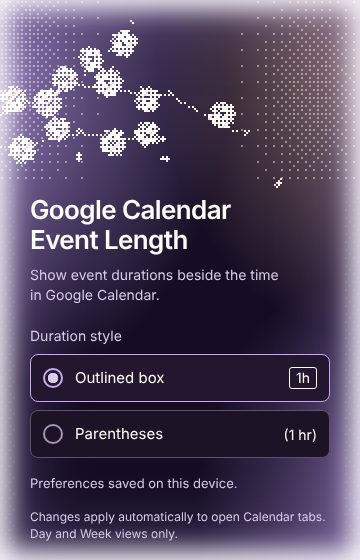
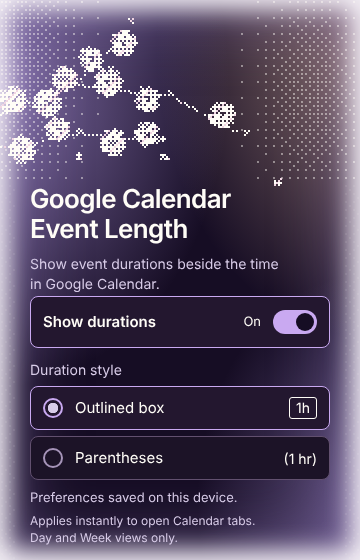
Add Show durations on/off switch (0.5.0)

Changed region(s): [[0.0611, 0.3339, 0.9167, 0.9714]]

diff --git a/extension/popup.css b/extension/popup.css
@@ -6,19 +6,32 @@ body { width: 360px; height: 560px; margin: 0; background: #160D24; font: 14px/1
 .popup::before { content: ''; position: absolute; inset: 0; pointer-events: none; background: url('texture.svg') 0 0 / 360px 560px; }
 .ornament { position: absolute; top: 18px; left: 0; width: 300px; height: 170px; overflow: hidden; pointer-events: none; }
 canvas, .poster { position: absolute; width: 300px; height: 170px; image-rendering: pixelated; }
-header { position: absolute; top: 195px; left: 30px; width: 300px; }
+header { position: absolute; top: 184px; left: 30px; width: 300px; }
 h1 { font-size: 26px; line-height: 30px; letter-spacing: -.6px; margin: 0 0 10px; font-weight: 600; }
 header p { margin: 0; font-size: 14px; line-height: 20px; color: #D8CCE8; }
-fieldset { position: absolute; left: 30px; top: 326px; width: 300px; padding: 0; border: 0; margin: 0; }
-legend { font-size: 14px; line-height: 20px; color: #D8CCE8; padding: 0 0 8px; }
-label { height: 48px; display: flex; gap: 12px; align-items: center; border: 1px solid #62506F; border-radius: 8px; padding: 12px; background: #1C1327; margin-bottom: 8px; cursor: pointer; }
+fieldset { position: absolute; left: 30px; top: 360px; width: 300px; padding: 0; border: 0; margin: 0; }
+legend { font-size: 14px; line-height: 20px; color: #D8CCE8; padding: 0 0 6px; }
+label { height: 44px; display: flex; gap: 12px; align-items: center; border: 1px solid #62506F; border-radius: 8px; padding: 12px; background: #1C1327; margin-bottom: 6px; cursor: pointer; }
 label:has(:checked) { border-color: #C9A9F1; background: #23172F; }
-input { appearance: none; flex: 0 0 20px; width: 20px; height: 20px; margin: 0; border: 2px solid #A694B9; border-radius: 50%; }
-input:checked { border-color: #C9A9F1; background: radial-gradient(circle,#D8CCE8 0 5px,transparent 5.5px); }
+input[type=radio] { appearance: none; flex: 0 0 20px; width: 20px; height: 20px; margin: 0; border: 2px solid #A694B9; border-radius: 50%; }
+input[type=radio]:checked { border-color: #C9A9F1; background: radial-gradient(circle,#D8CCE8 0 5px,transparent 5.5px); }
 input:focus-visible { outline: 2px solid #FFFDF7; outline-offset: 4px; }
 label span { flex: 1; font-size: 15px; }
 b { font-size: 14px; line-height: 20px; padding: 0 6px; border: 1px solid #FFFDF7; border-radius: 3px; font-weight: 400; }
 i { font-size: 14px; font-style: normal; }
-.status { position: absolute; left: 30px; top: 474px; width: 300px; margin: 0; font-size: 13px; line-height: 18px; color: #D8CCE8; }
-footer { position: absolute; left: 30px; top: 508px; width: 300px; font-size: 12px; line-height: 17px; color: #D8CCE8; }
+.status { position: absolute; left: 30px; top: 488px; width: 300px; margin: 0; font-size: 13px; line-height: 18px; color: #D8CCE8; }
+footer { position: absolute; left: 30px; top: 512px; width: 300px; font-size: 12px; line-height: 17px; color: #D8CCE8; }
 fieldset:disabled { opacity: .65; }
+.switch { position: absolute; left: 30px; top: 296px; width: 300px; height: 52px; margin: 0; border-color: #C9A9F1; background: #23172F; }
+.switch span { font-weight: 600; }
+.switch output { font-size: 13px; color: #FFFDF7; min-width: 24px; text-align: right; }
+.switch input { appearance: none; flex: 0 0 44px; width: 44px; height: 24px; margin: 0; border-radius: 12px; background: #C9A9F1; position: relative; cursor: pointer; transition: background .15s; }
+.switch input::after { content: ''; position: absolute; top: 3px; left: 23px; width: 18px; height: 18px; border-radius: 50%; background: #160D24; transition: left .15s; }
+.switch input:not(:checked) { background: #3A2D47; box-shadow: inset 0 0 0 2px #A694B9; }
+.switch input:not(:checked)::after { left: 3px; background: #A694B9; }
+.switch input:focus-visible { outline: 2px solid #FFFDF7; outline-offset: 4px; }
+.switch input:disabled { opacity: .65; }
+.off .switch { border-color: #62506F; background: #1C1327; }
+.off .switch output { color: #A694B9; }
+.off fieldset label { opacity: .5; }
+@media (prefers-reduced-motion: reduce) { .switch input, .switch input::after { transition: none; } }

diff --git a/extension/content.js b/extension/content.js
@@ -10,6 +10,7 @@
   let settleTimer;
   let startupLimit;
   let durationStyle = 'box';
+  let enabled = true;
   let preferencesReady = !globalThis.chrome?.storage?.local;
   const sizedEvents = new Set();
   const canvas = document.createElement('canvas');
@@ -37,7 +38,7 @@
   function refresh() {
     queued = false;
     observer.disconnect();
-    const active = /\/r\/(day|week)(?:\/|$)/.test(location.pathname);
+    const active = enabled && /\/r\/(day|week)(?:\/|$)/.test(location.pathname);
     const kept = new Set();
     if (active) {
       for (const event of document.querySelectorAll(eventSelector)) {
@@ -130,14 +131,22 @@
   const resizeObserver = new ResizeObserver(schedule);
   if (!preferencesReady) {
     let changed = false;
+    let enabledChanged = false;
     chrome.storage.onChanged.addListener((changes, area) => {
-      if (area !== 'local' || !changes.durationStyle) return;
-      changed = true;
-      durationStyle = changes.durationStyle.newValue === 'text' ? 'text' : 'box';
+      if (area !== 'local' || (!changes.durationStyle && !changes.durationEnabled)) return;
+      if (changes.durationStyle) {
+        changed = true;
+        durationStyle = changes.durationStyle.newValue === 'text' ? 'text' : 'box';
+      }
+      if (changes.durationEnabled) {
+        enabledChanged = true;
+        enabled = changes.durationEnabled.newValue !== false;
+      }
       schedule();
     });
-    chrome.storage.local.get('durationStyle').then((settings) => {
+    chrome.storage.local.get(['durationStyle', 'durationEnabled']).then((settings) => {
       if (!changed) durationStyle = settings.durationStyle === 'text' ? 'text' : 'box';
+      if (!enabledChanged) enabled = settings.durationEnabled !== false;
     }).catch(() => {}).finally(() => {
       preferencesReady = true;
       schedule();

diff --git a/extension/popup.js b/extension/popup.js
@@ -1,16 +1,42 @@
 const fieldset = document.querySelector('fieldset');
+const toggle = document.querySelector('#enabled');
+const state = document.querySelector('#state');
 const status = document.querySelector('#status');
+
+function show(enabled) {
+  toggle.checked = enabled;
+  state.textContent = enabled ? 'On' : 'Off';
+  document.body.classList.toggle('off', !enabled);
+}
 
 async function load() {
   try {
-    const { durationStyle } = await chrome.storage.local.get('durationStyle');
+    const { durationStyle, durationEnabled } = await chrome.storage.local.get(['durationStyle', 'durationEnabled']);
     document.querySelector(`input[value="${durationStyle === 'text' ? 'text' : 'box'}"]`).checked = true;
-    fieldset.disabled = false;
+    show(durationEnabled !== false);
+    fieldset.disabled = toggle.disabled = false;
     status.textContent = 'Preferences saved on this device.';
   } catch {
     status.textContent = 'Could not load. Reopen to retry.';
   }
 }
+
+toggle.addEventListener('change', async () => {
+  const enabled = toggle.checked;
+  show(enabled);
+  toggle.disabled = true;
+  status.textContent = 'Saving…';
+  try {
+    await chrome.storage.local.set({ durationEnabled: enabled });
+    status.textContent = enabled ? 'Durations on.' : 'Durations off.';
+  } catch {
+    show(!enabled);
+    status.textContent = 'Could not save. Try the switch again.';
+  } finally {
+    toggle.disabled = false;
+    toggle.focus();
+  }
+});
 
 fieldset.addEventListener('change', async (event) => {
   fieldset.disabled = true;

diff --git a/extension/popup.html b/extension/popup.html
@@ -11,13 +11,14 @@
   <main class="popup">
   <div class="ornament" aria-hidden="true"><img class="poster" src="poster.svg" alt=""><canvas width="300" height="170"></canvas></div>
   <header><h1>Google Calendar<br>Event Length</h1><p>Show event durations beside the time<br>in Google Calendar.</p></header>
+  <label class="switch"><span>Show durations</span><output id="state" aria-hidden="true">On</output><input id="enabled" type="checkbox" role="switch" checked disabled aria-describedby="status"></label>
   <fieldset disabled aria-describedby="status">
     <legend>Duration style</legend>
     <label><input type="radio" name="style" value="box"><span>Outlined box</span><b aria-hidden="true">1h</b></label>
     <label><input type="radio" name="style" value="text"><span>Parentheses</span><i aria-hidden="true">(1 hr)</i></label>
   </fieldset>
   <p id="status" class="status" role="status">Loading preference…</p>
-  <footer>Changes apply automatically to open Calendar tabs.<br>Day and Week views only.</footer>
+  <footer>Applies instantly to open Calendar tabs.<br>Day and Week views only.</footer>
   </main>
 </body>
 </html>

diff --git a/DESIGN-SPEC.md b/DESIGN-SPEC.md
@@ -1,6 +1,6 @@
 # Calendar Event Length — design specification
 
-Implementation reference: version 0.4.0. The popup now integrates the approved sakura study: a 360×560 dark-purple surface, contained milky-white vignette, locally rendered dithered blossoms, and native radio controls. Functional scope remains the same two duration styles.
+Implementation reference: version 0.5.0. The popup now integrates the approved sakura study: a 360×560 dark-purple surface, contained milky-white vignette, locally rendered dithered blossoms, a native **Show durations** on/off switch, and native radio controls for the two duration styles.
 
 ## Product in one sentence
 
@@ -42,13 +42,14 @@ Suggested information order, implemented with native HTML controls:
 
 1. Heading: **Google Calendar Event Length**.
 2. Short description: **Show event durations beside the time in Google Calendar.**
-3. Fieldset named **Duration style**, with two mutually exclusive radio choices:
+3. A **Show durations** switch (`checkbox` with `role="switch"`) with a visible **On**/**Off** word. On is the default. Off removes every label from open Calendar tabs and dims the style choices, which stay selectable so the next On uses them.
+4. Fieldset named **Duration style**, with two mutually exclusive radio choices:
    - **Outlined box**, with a boxed `1h` sample.
    - **Parentheses**, with a `(1 hr)` sample.
-4. A status line for loading, saving, saved, or error feedback.
-5. Supporting copy: **Changes apply automatically to open Calendar tabs. Day and Week views only.**
+5. A status line for loading, saving, saved, or error feedback.
+6. Supporting copy: **Changes apply automatically to open Calendar tabs. Day and Week views only.**
 
-Selecting a radio saves immediately. There is no Save/Apply button. Existing supported Calendar tabs update without refreshing. The choice persists across popup closures and page reloads in the same Chrome profile, and is stored on that device, not synced to other devices. The initial default is Outlined box. Unknown saved values fall back to that default.
+Flipping the switch or selecting a radio saves immediately. There is no Save/Apply button. Existing supported Calendar tabs update without refreshing. The choice persists across popup closures and page reloads in the same Chrome profile, and is stored on that device, not synced to other devices. The initial default is Outlined box. Unknown saved values fall back to that default.
 
 The current popup is 360px wide and 560px tall. It uses native radio semantics, visible keyboard focus, readable labels, and a live status region. Decoration is clipped above the heading, aria-hidden, and non-interactive. Reduced motion uses a static scene; animation stops while the popup is hidden or unloaded. Scripts, fonts, icons, and the SVG fallback poster are packaged locally.
 
@@ -56,8 +57,11 @@ The current popup is 360px wide and 560px tall. It uses native radio semantics, 
 
 | State | Control behavior | Feedback |
 | --- | --- | --- |
-| Opening/loading | Radios disabled until the preference loads | “Loading preference…” |
-| Ready, box selected | Box radio checked | “Preferences are saved on this device.” |
+| Opening/loading | Switch and radios disabled until preferences load | “Loading preference…” |
+| Ready, box selected | Box radio checked | “Preferences saved on this device.” |
+| Switched off | Switch shows Off; style cards dimmed but selectable; labels removed from Calendar tabs | “Durations off.” |
+| Switched on | Switch shows On; labels return in the chosen style | “Durations on.” |
+| Switch save error | Switch returns to its previous position | “Could not save. Try the switch again.” |
 | Ready, parentheses selected | Parentheses radio checked | Same ready message |
 | Saving | Radios temporarily disabled | “Saving…” |
 | Saved | Selected radio checked; controls enabled | “Saved.” |
@@ -82,7 +86,7 @@ Skipped: all-day events, zero/reversed ranges, overnight/multi-day events, range
 
 ## Privacy and implementation
 
-Manifest V3; plain JavaScript, HTML, and CSS. Content scripts run only on `https://calendar.google.com/*`. The popup is packaged with the extension. The only additional permission is `storage`, used for the single `durationStyle` preference (`box` or `text`). The extension does not store event content, send calendar data, use analytics, call external APIs, or require a backend or separate login.
+Manifest V3; plain JavaScript, HTML, and CSS. Content scripts run only on `https://calendar.google.com/*`. The popup is packaged with the extension. The only additional permission is `storage`, used for the `durationEnabled` (`true`/`false`) and `durationStyle` (`box`/`text`) preferences. The extension does not store event content, send calendar data, use analytics, call external APIs, or require a backend or separate login.
 
 The extension reads supported DOM structures rather than an official Google Calendar extension API, so Google UI changes can require adapter updates. A Chrome account is needed only for Calendar itself, not for the extension.
 

diff --git a/docs/STORE-LISTING.md b/docs/STORE-LISTING.md
@@ -1,6 +1,6 @@
 # Chrome Web Store listing copy
 
-Review this before submitting; it describes version 0.4.0, not planned features.
+Review this before submitting; it describes version 0.5.0, not planned features.
 
 ## Name
 
@@ -24,7 +24,7 @@ Choose the style you prefer:
 • Outlined badges, such as “1h 30m”
 • Simple parentheses, such as “(1 hr 30 min)”
 
-Open the extension's sakura-themed popup to switch styles. Your preference saves automatically and updates open Calendar tabs. The popup includes gently animated, dithered cherry blossoms and respects your system's reduced-motion preference.
+Open the extension's sakura-themed popup to turn durations on or off and switch styles. Your preferences save automatically and updates open Calendar tabs. The popup includes gently animated, dithered cherry blossoms and respects your system's reduced-motion preference.
 
 Designed to stay out of your way:
 • Duration text uses black or white for contrast.
@@ -47,11 +47,11 @@ This is an independent extension and is not affiliated with or endorsed by Googl
 
 ## Single-purpose statement
 
-Calculate and display the duration of supported Google Calendar events directly beside their time ranges, with a user-selectable display style.
+Calculate and display the duration of supported Google Calendar events directly beside their time ranges, with a user-selectable display style and an on/off switch.
 
 ## Permission justifications
 
-**storage:** Save the user's duration display style locally and propagate style changes to other open Calendar tabs. No event content is persisted.
+**storage:** Save the user's on/off choice and duration display style locally and propagate changes to other open Calendar tabs. No event content is persisted.
 
 **calendar.google.com site access/content scripts:** Read displayed event time ranges and nearby DOM metadata to identify supported timed event blocks, calculate their durations, and insert non-interactive labels. Processing stays inside the user's browser.
 
@@ -66,6 +66,7 @@ Do **not** declare that the extension never accesses user data. It accesses **we
 1. Install the extension, open Google Calendar using a reviewer-controlled Google account, and select Week or Day view. No extension-specific login is required; do not supply the developer's account credentials.
 2. Create a test event with a same-day range such as 9:11pm–11:32pm and sufficient horizontal width. Confirm the outlined “2h 21m” label beside the time.
 3. Open Google Calendar Event Length from Chrome's Extensions menu. Choose Parentheses and confirm “(2 hr 21 min)” appears in the existing Calendar tab.
-4. Open another supported Calendar tab, change the style, and confirm both tabs update. Close/reopen the popup to verify persistence.
-5. Check a 12pm–1pm event, a 24-hour display, an all-day event, and a very narrow block. Unsupported or non-fitting events should not receive a misleading label.
-6. Enable system reduced motion to see the static popup artwork. The popup animation never runs inside Calendar event labels.
+4. Turn **Show durations** Off and confirm every label disappears from the Calendar tab; turn it On and confirm labels return.
+5. Open another supported Calendar tab, change the style, and confirm both tabs update. Close/reopen the popup to verify persistence.
+6. Check a 12pm–1pm event, a 24-hour display, an all-day event, and a very narrow block. Unsupported or non-fitting events should not receive a misleading label.
+7. Enable system reduced motion to see the static popup artwork. The popup animation never runs inside Calendar event labels.

diff --git a/README.md b/README.md
@@ -4,7 +4,7 @@
 
 An independent Chrome extension for Google Calendar's Day and Week views. Choose an outlined duration badge or simple parentheses from a small, animated sakura popup.
 
-<img src="docs/images/popup.png" width="360" height="560" alt="The extension's sakura popup, with Outlined box and Parentheses style choices">
+<img src="docs/images/popup.png" width="360" height="560" alt="The extension's sakura popup, with a Show durations on/off switch and Outlined box and Parentheses style choices">
 
 *Screenshot of the real unpacked extension popup, at its actual 360 × 560 size.*
 
@@ -27,7 +27,7 @@ This project is currently distributed as an unpacked extension; it has not been 
 3. Click **Load unpacked**. Select the folder containing `manifest.json`: `google-calendar-event-length` from the install ZIP, or `extension/` from the repository. Do not select the repository root.
 4. Refresh Google Calendar and select **Day** or **Week**.
 5. Click Chrome's **Extensions** puzzle-piece icon → **Google Calendar Event Length**. Pin it if you want the popup one click away.
-6. Choose **Outlined box** or **Parentheses**. There is no Save button: the choice saves immediately.
+6. Use **Show durations** to turn labels **On** or **Off**, and choose **Outlined box** or **Parentheses**. There is no Save button: each change saves immediately and updates open Calendar tabs without a refresh. Turning durations off removes every label; turning them back on restores them in your chosen style.
 
 **Already installed an earlier version?** Replace the files in the same extension folder, click **Reload** on its Chrome extension card, and refresh Calendar. This loads the new popup without changing the extension's ID or clearing your preference. Moving to a different folder can create a second installation; disable/remove the old one to avoid duplicate extensions.
 
@@ -47,10 +47,10 @@ If a label doesn't fit, it disappears rather than resizing the event or truncati
 
 ## Privacy and permissions
 
-The extension reads supported Calendar event time text and nearby DOM metadata **locally**, to calculate durations and identify eligible blocks. Event content is not saved or transmitted. Only your `durationStyle` preference is saved in Chrome's local extension storage.
+The extension reads supported Calendar event time text and nearby DOM metadata **locally**, to calculate durations and identify eligible blocks. Event content is not saved or transmitted. Only your `durationEnabled` (on/off) and `durationStyle` preferences are saved in Chrome's local extension storage.
 
 - **Site access:** `https://calendar.google.com/*` only.
-- **`storage`:** remembers the selected style and updates other open Calendar tabs.
+- **`storage`:** remembers whether durations are on and which style you chose, and updates other open Calendar tabs.
 - Fonts, illustration, scripts, and fallback artwork are packaged locally; there are no remote assets.
 
 Read the [privacy policy](PRIVACY.md). The sakura illustration is decorative and cannot intercept clicks or keyboard focus.

diff --git a/PRIVACY.md b/PRIVACY.md
@@ -1,6 +1,6 @@
 # Privacy policy — Google Calendar Event Length
 
-Effective date: October 12, 2026. Applies to version 0.4.0.
+Effective date: October 12, 2026. Applies to version 0.5.0.
 
 Google Calendar Event Length is an independent browser extension and is not affiliated with or endorsed by Google.
 
@@ -8,7 +8,7 @@ Google Calendar Event Length is an independent browser extension and is not affi
 
 The extension accesses Google Calendar page content on `https://calendar.google.com/*`. It reads displayed event time ranges and nearby event metadata/DOM attributes to identify supported event blocks, calculate durations, choose contrasting text, and position labels. This processing happens locally in your browser. Calendar content is not saved by the extension or transmitted to the developer or any third party.
 
-The popup saves one preference, `durationStyle` (`box` or `text`), using Chrome's local extension storage. It is used only to remember the display style and notify other open Calendar tabs of changes. This preference is not synced by the extension to other devices and is not transmitted to the developer.
+The popup saves two preferences using Chrome's local extension storage: `durationEnabled` (`true` or `false`) and `durationStyle` (`box` or `text`). They are used only to remember whether durations are shown and in which style, and notify other open Calendar tabs of changes. These preferences are not synced by the extension to other devices and is not transmitted to the developer.
 
 ## What we do not collect or share
 

diff --git a/docs/PUBLISHING.md b/docs/PUBLISHING.md
@@ -4,10 +4,11 @@ You can use the extension locally right now. Publishing is a separate process: *
 
 ## 1. Do the last manual checks
 
-Use the 0.4.0 install ZIP on your own Chrome before submitting:
+Use the 0.5.0 install ZIP on your own Chrome before submitting:
 
 - [ ] Load/reload the extension and refresh Calendar.
 - [ ] Open the toolbar popup; confirm the 360×560 layout and keyboard focus are readable.
+- [ ] Turn **Show durations** Off (labels disappear) and On (labels return).
 - [ ] Switch both styles, reopen the popup, and verify two open Calendar tabs update.
 - [ ] Check Day/Week navigation, an event time edit, clicks, dragging, and resizing in a test calendar.
 - [ ] Check noon/midnight and a 24-hour range, all-day skips, and a narrow event.
@@ -24,7 +25,7 @@ Google may ask for additional publisher verification or regional disclosures. Co
 
 ## 3. Upload the correct ZIP
 
-Run `python3 scripts/package.py`, or use the supplied **`google-calendar-event-length-0.4.0-store.zip`**.
+Run `python3 scripts/package.py`, or use the supplied **`google-calendar-event-length-0.5.0-store.zip`**.
 
 Choose **Add new item → Choose file → Upload** in the dashboard. Upload the ZIP as-is. `manifest.json` must be at its root.
 

diff --git a/design-preview/README.md b/design-preview/README.md
@@ -1,6 +1,6 @@
 # Sakura popup study — revision 2, unapproved
 
-This folder preserves the original isolated design/motion prototype. **Version 0.4.0 integrates the approved design in `extension/`.** The native radio inputs in this sandbox still only simulate saving; they do not write `durationStyle` or communicate with Calendar tabs. Use the installed extension to exercise real settings and see the root README for current verification.
+This folder preserves the original isolated design/motion prototype. **Since version 0.4.0, the extension integrates the approved design in `extension/`.** The native radio inputs in this sandbox still only simulate saving; they do not write `durationStyle` or communicate with Calendar tabs. Use the installed extension to exercise real settings and see the root README for current verification.
 
 ## Open the designs
 
